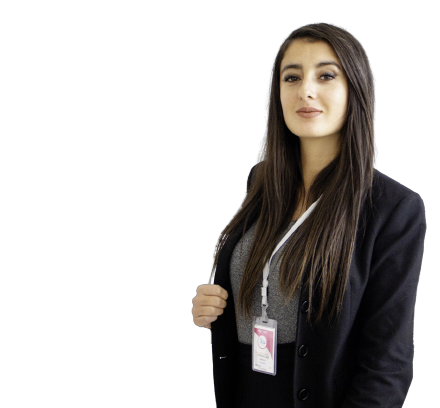
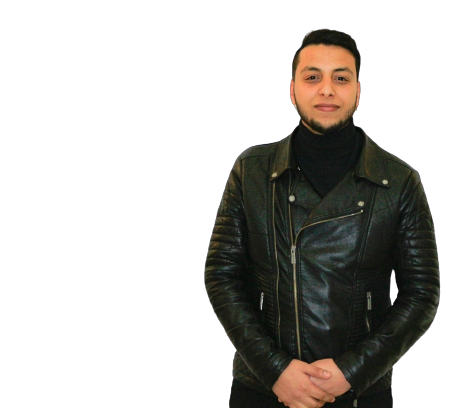
main

Changed region(s): [[0.4136, 0.0294, 0.975, 1.0]]

diff --git a/index.html b/index.html
@@ -53,13 +53,13 @@
   <!-- ======= Hero Section ======= -->
   <section id="hero" class="d-flex flex-column justify-content-center">
     <div class="container" data-aos="zoom-in" data-aos-delay="100">
-      <h1>Yosra Gallah</h1>
-      <p>I'm <span class="typed" data-typed-items="Mobile Developer,Team Leader, Freelancer"></span></p>
+      <h1>Majed Akari</h1>
+      <p>Je suis <span class="typed" data-typed-items="Technicien Méthode et développement Produit ,Responsable Bureau D’etudes"></span></p>
       <div class="social-links">
-        <a href="https://www.facebook.com/Yosra.glh" class="facebook"><i class="bx bxl-facebook"></i></a>
-        <a href="https://www.instagram.com/yusra_glh/" class="instagram"><i class="bx bxl-instagram"></i></a>
+        <a href="https://www.facebook.com/majed.akari" class="facebook"><i class="bx bxl-facebook"></i></a>
+        <a href="https://www.instagram.com/majedakari" class="instagram"><i class="bx bxl-instagram"></i></a>
         <a href="https://join.skype.com/invite/JgW1Ir3n5lAb" class="google-plus"><i class="bx bxl-skype"></i></a>
-        <a href="https://www.linkedin.com/in/yosra-gallah" class="linkedin"><i class="bx bxl-linkedin"></i></a>
+        <a href="https://www.linkedin.com/in/majed-akari-4b0114187/" class="linkedin"><i class="bx bxl-linkedin"></i></a>
       </div>
     </div>
   </section><!-- End Hero -->
@@ -71,8 +71,8 @@
       <div class="container" data-aos="fade-up">
 
         <div class="section-title">
-          <h2>About</h2>
-          <p>Dynamic mobile developer with proficiency in Flutter and React Native frameworks. I have experience in UI design, agile development, and Git for version control and collaboration. I effectively communicate within the team, empowering individuals to excel and consistently deliver exceptional work. As a recognized leader and mentor, I uphold high standards of modern technologies to meet project requirements.</p>
+          <h2>A propos</h2>
+          <p>Technicien supérieur en méthode et développement des produits, avec 4 ans d'expérience dans le domaine de la fabrication des pièces mécaniques. Grâce à mes solides compétences en procédés de production, contrôle qualité et gestion d'équipe, je suis capable de mener à bien des projets. De plus, ma flexibilité me permet de travailler efficacement aussi bien en équipe que de manière indépendante.</p>
         </div>
 
         <div class="row">
@@ -80,7 +80,7 @@
             <img src="assets/img/profile-img.jpg" class="img-fluid" alt="">
           </div>
           <div class="col-lg-8 pt-5 pt-lg-0 content">
-            <h3>Mobile Developer</h3>
+            <h3>Technicien Méthode et développement Produit</h3>
             <p class="fst-italic">
              
               
@@ -88,18 +88,18 @@
             <div class="row">
               <div class="col-lg-6">
                 <ul>
-                  <li><i class="bi bi-chevron-right"></i> <strong>Birthday:</strong> <span>7 March 1999</span></li>
-                  <li><i class="bi bi-chevron-right"></i> <strong>Website:</strong> <span>www.example.com</span></li>
-                  <li><i class="bi bi-chevron-right"></i> <strong>Phone:</strong> <span>+216 54 049 654</span></li>
-                  <li><i class="bi bi-chevron-right"></i> <strong>City:</strong> <span>Sousse, Tunisia</span></li>
+                  <li><i class="bi bi-chevron-right"></i> <strong>Date de naissance:</strong> <span>21 Aout 1997</span></li>
+                  <li><i class="bi bi-chevron-right"></i> <strong>Site web:</strong> <span>www.example.com</span></li>
+                  <li><i class="bi bi-chevron-right"></i> <strong>Téléphone:</strong> <span>+216 23 144 839</span></li>
+                  <li><i class="bi bi-chevron-right"></i> <strong>Ville:</strong> <span>Sousse, Tunisie</span></li>
                 </ul>
               </div>
               <div class="col-lg-6">
                 <ul>
-                  <li><i class="bi bi-chevron-right"></i> <strong>Age:</strong> <span>24</span></li>
-                  <li><i class="bi bi-chevron-right"></i> <strong>Degree:</strong> <span>Engeniering student</span></li>
-                  <li><i class="bi bi-chevron-right"></i> <strong>PhEmailone:</strong> <span>gallahyosra@gmail.com</span></li>
-                  <li><i class="bi bi-chevron-right"></i> <strong>Freelance:</strong> <span>Available</span></li>
+                  <li><i class="bi bi-chevron-right"></i> <strong>Age:</strong> <span>26</span></li>
+                  <li><i class="bi bi-chevron-right"></i> <strong>Diplôme:</strong> <span>MASTER EN GENIE DE PROCEDE DE PRODUCTION MECANIQUE</span></li>
+                  <li><i class="bi bi-chevron-right"></i> <strong>Email:</strong> <span>aakarimajed@gmail.com</span></li>
+                  <li><i class="bi bi-chevron-right"></i> <strong>Freelance:</strong> <span>Disponible</span></li>
                 </ul>
               </div>
             </div>
@@ -166,7 +166,7 @@
       <div class="container" data-aos="fade-up">
 
         <div class="section-title">
-          <h2>Skills</h2>
+          <h2>Compétences</h2>
           </div>
 
         <div class="row skills-content">
